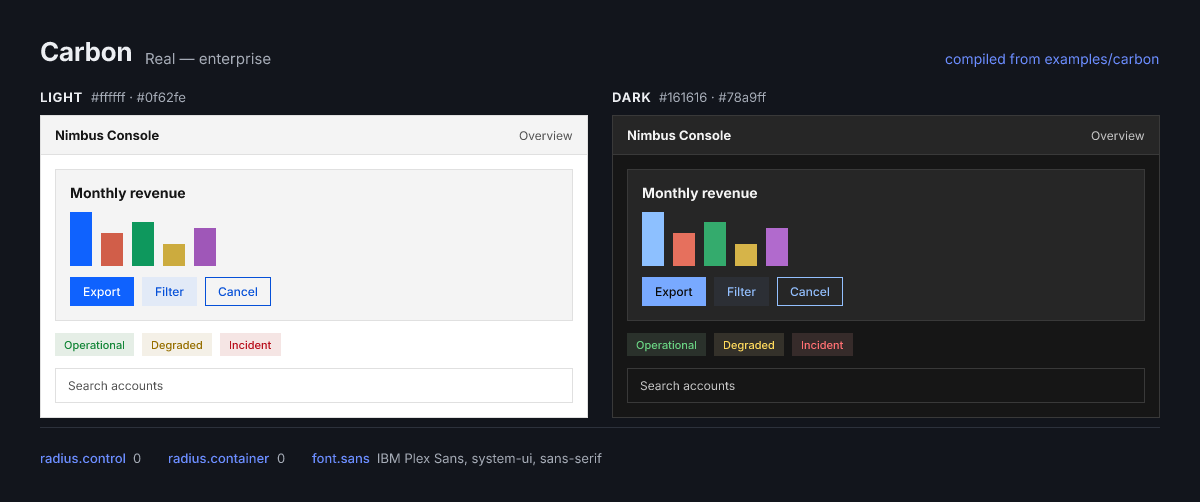
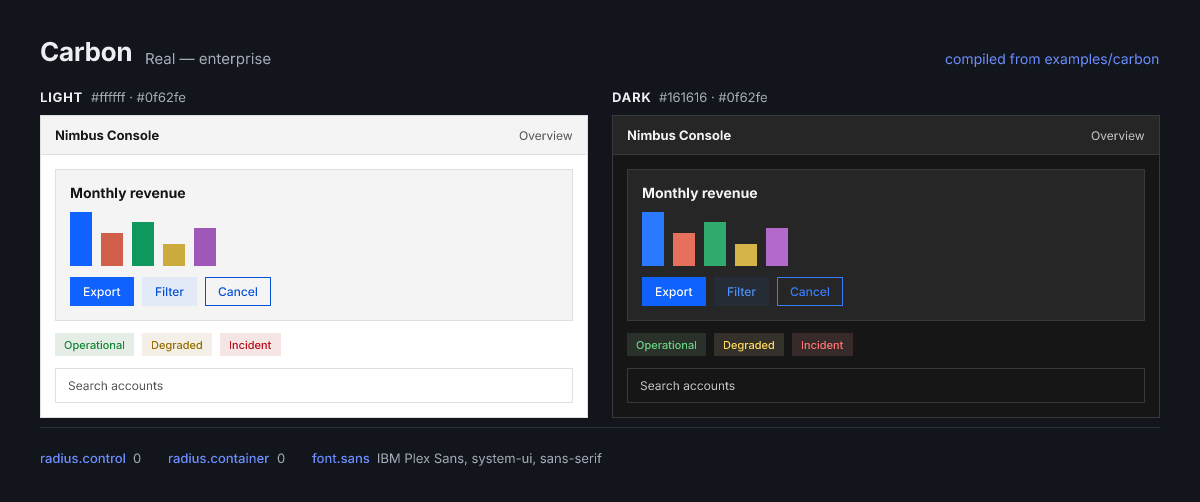
fix(examples): bind Carbon's primary and secondary to its real G100 button values (#139)

Changed region(s): [[0.5242, 0.4183, 0.7092, 0.6275], [0.5858, 0.1793, 0.6475, 0.2092]]

diff --git a/docs/findings/carbon-adoption.md b/docs/findings/carbon-adoption.md
@@ -2,14 +2,17 @@
 
 Source: [carbondesignsystem.com/elements/color/tokens](https://carbondesignsystem.com/elements/color/tokens/), fetched live 2026-07-21, for the White (light) theme core tokens and the Support/Button component tokens. The G100 (dark) theme's per-token values were **not** independently re-fetched from a live rendering of that specific theme tab in this pass (the site's theme switcher didn't expose a clean text extraction for it) — the G100 values used here are well-established, stable Carbon v11 constants, cross-checked against the White-theme values that _were_ live-verified (which matched expectations exactly), but flagged here as a lower-confidence input than the White theme numbers.
 
+> **Re-verified 2026-10-09 against Carbon's own source.** Every G100 value bound below was checked against the DTCG token files Carbon publishes in its repository ([`packages/themes/src/dtcg`](https://github.com/carbon-design-system/carbon/tree/81893f3d925daa624c516ef3d4edf2e7f339d7db/packages/themes/src/dtcg) at commit `81893f3`: `themes.json` for the core tokens, `components/button.json` for the button tokens). All of them match, with two corrections now applied to the example: `primary.solid` had been bound to `$link-primary`, which is Blue 40 on G100, while Carbon's `$button-primary` stays Blue 60 in all four themes; and `$button-secondary`, previously bound light-mode only, is Gray 60 on G100. `$support-warning` is confirmed as Yellow 30 in every theme.
+
 ## Clean 1:1 mappings, both modes
 
 Every one of these has a real, named Carbon token with a documented value in _both_ the White and G100 themes, bound via `$extensions.transtyle.modes`:
 
-- `primary.solid` ← `$link-primary` / `$interactive` / `$button-primary` (all Blue 60, #0f62fe light; Blue 40, #78a9ff dark).
+- `primary.solid` ← `$button-primary` (Blue 60, #0f62fe, in all four themes: Carbon's filled primary button does not lighten on G100). `$link-primary` and `$interactive` share Blue 60 on White but lighten on G100 (Blue 40 #78a9ff and Blue 50 #4589ff) for text and border contrast, which is why the catalog's `link.*` slots bind `$link-primary` and `primary.solid` does not. Dark mode carries the light value over, so `transtyle check` prints an informational `TST1204` for this role: that is Carbon's actual design, not a gap.
 - `danger.solid` ← `$support-error` (Red 60 #da1e28 light; Red 50 #fa4d56 dark).
 - `success.solid` ← `$support-success` (Green 50 #24a148 light; Green 40 #42be65 dark).
-- `warning.solid` ← `$support-warning` (Yellow 30 #f1c21b — same both themes).
+- `warning.solid` ← `$support-warning` (Yellow 30 #f1c21b, the same in all four themes).
+- `secondary.solid` ← `$button-secondary` (Gray 80 #393939 light; Gray 60 #6f6f6f dark).
 - `info.solid` ← `$support-info` (Blue 70 #0043ce light; Blue 50 #4589ff dark).
 - `ring` ← `$focus` (Blue 60 light; **white** on G100 — a real, deliberate Carbon choice: a blue focus ring on a near-black background would be too low-contrast, so Carbon's own dark theme swaps the focus indicator to white).
 - `text.base`/`text.muted` ← `$text-primary`/`$text-secondary`.
@@ -21,8 +24,8 @@ This is the **strongest per-role coverage of the two real-DS adoptions** — Car
 
 ## Judgment calls
 
-- **`neutral.solid`** — Carbon's core tokens don't name a "neutral brand" role either (same gap as GOV.UK). Bound to Gray 60 (#6f6f6f), Carbon's own `$text-helper`/`$icon-secondary` gray — mode-invariant, since Carbon doesn't publish a distinct G100 value for this exact gray step relative to White that would meaningfully change the pairing.
-- **`secondary.solid`** — Carbon _does_ have a real, named secondary role (`$button-secondary`, Gray 80 #393939) — a better starting point than GOV.UK, which has none. **Bound light-mode only.** The G100 theme's own `$button-secondary` value wasn't independently re-confirmed against a live source in this pass (see the header note); rather than guess a plausible-looking dark-mode hex, dark mode falls back to the same light value. This is the one place this adoption is honestly incomplete rather than fully verified — flagged, not hidden.
+- **`neutral.solid`** — Carbon's core tokens don't name a "neutral brand" role either (same gap as GOV.UK). Bound to Gray 60 (#6f6f6f), the gray Carbon's `$text-helper` uses on White, and kept mode-invariant. Carbon's source does give `$text-helper` a lighter G100 value (Gray 40), so following it in dark mode is a possible refinement; it stays a judgment call because no Carbon token is a neutral _fill_ role.
+- **`secondary.solid`** — Carbon _does_ have a real, named secondary role (`$button-secondary`), a better starting point than GOV.UK, which has none. It was first bound light-mode only, because its G100 value had not been confirmed; Carbon's source settles it (Gray 60 on G90 and G100), so both modes are now bound. On G100, secondary and `neutral` resolve to the same Gray 60: that is Carbon's own value for the secondary button, kept rather than nudged apart.
 
 ## Scope boundaries (not gaps — deliberate, documented)
 
@@ -33,7 +36,7 @@ This is the **strongest per-role coverage of the two real-DS adoptions** — Car
 
 - All seven targets (`shadcn`, `echarts`, `daisyui`, `bootstrap`, `storybook`, `css-variables`, `radix`) build with zero errors and zero warnings, in both modes.
 - `transtyle check --json` reports **zero diagnostics**.
-- All seven demo projects launched and screenshot-verified in-browser, both modes: the Radix demo's dark-mode screenshot shows the real G100 background (#161616) and Blue 40 primary (#78a9ff), an exact match to the bound values — confirming the mode-scoped `$extensions` resolved correctly end to end, not just at the token level. IBM Plex Sans/Mono load for real (Google Fonts). No console errors.
+- All seven demo projects launched and screenshot-verified in-browser, both modes: the Radix demo's dark-mode screenshot showed the real G100 background (#161616) and the primary then bound (Blue 40, #78a9ff, since corrected to Carbon's Blue 60 button value), an exact match to the bound values — confirming the mode-scoped `$extensions` resolved correctly end to end, not just at the token level. IBM Plex Sans/Mono load for real (Google Fonts). No console errors.
 - `check:determinism` extended to include this example: two builds are byte-identical.
 
 ## Catalog impact

diff --git a/docs/findings/t11-review-checklist.md b/docs/findings/t11-review-checklist.md
@@ -21,22 +21,22 @@ Per `docs/plan/catalog-revision.md` T11: _"a review checklist per target filled 
 
 ## Carbon (`examples/carbon/demo/`, ports 4401–4407, 6401)
 
-| Target        | Port | What to look for                                                                                                                                               | Result |
-| ------------- | ---- | -------------------------------------------------------------------------------------------------------------------------------------------------------------- | ------ |
-| Bootstrap     | 4401 | Both light and dark (`data-bs-theme`) look like real Carbon, not a generic dark mode                                                                           | ☐      |
-| daisyUI       | 4402 | White and G100 theme blocks both register; toggle between them                                                                                                 | ☐      |
-| shadcn/ui     | 4403 | Registry components in both modes; IBM Plex Sans renders (check via devtools computed font, not just visually)                                                 | ☐      |
-| ECharts       | 4404 | Both mode themes look distinctly Carbon (Blue 60 light / Blue 40 dark)                                                                                         | ☐      |
-| Storybook     | 6401 | Chrome themes correctly in both modes via the toolbar switcher                                                                                                 | ☐      |
-| css-variables | 4405 | Full catalog browses cleanly; spot-check `--color-*` dark values against Carbon's G100 token page                                                              | ☐      |
-| Radix         | 4406 | `indigo`/`gray` preset override; dark mode shows real G100 background + Blue 40 primary (already screenshot-verified during engineering — worth a second look) | ☐      |
-| PrimeNG       | 4407 | Aura preset in both modes on real PrimeNG Angular components; IBM Plex renders; `ng build` type-checks the emitted preset                                      | ☐      |
+| Target        | Port | What to look for                                                                                                                                   | Result |
+| ------------- | ---- | -------------------------------------------------------------------------------------------------------------------------------------------------- | ------ |
+| Bootstrap     | 4401 | Both light and dark (`data-bs-theme`) look like real Carbon, not a generic dark mode                                                               | ☐      |
+| daisyUI       | 4402 | White and G100 theme blocks both register; toggle between them                                                                                     | ☐      |
+| shadcn/ui     | 4403 | Registry components in both modes; IBM Plex Sans renders (check via devtools computed font, not just visually)                                     | ☐      |
+| ECharts       | 4404 | Both mode themes look distinctly Carbon (Blue 60 primary in both, on White and G100 backgrounds)                                                   | ☐      |
+| Storybook     | 6401 | Chrome themes correctly in both modes via the toolbar switcher                                                                                     | ☐      |
+| css-variables | 4405 | Full catalog browses cleanly; spot-check `--color-*` dark values against Carbon's G100 token page                                                  | ☐      |
+| Radix         | 4406 | `indigo`/`gray` preset override; dark mode shows real G100 background + Blue 60 primary (Carbon's `$button-primary`, the same blue in every theme) | ☐      |
+| PrimeNG       | 4407 | Aura preset in both modes on real PrimeNG Angular components; IBM Plex renders; `ng build` type-checks the emitted preset                          | ☐      |
 
 ## Open items from the findings ledger worth a maintainer opinion
 
 - [ ] GOV.UK: is Black tint-50 (#858686) the right `neutral` anchor, or would tint-25 read better in practice? (`govuk-adoption.md`)
 - [ ] GOV.UK: is purple (#54319f) an acceptable `link.visited` given it's not in GOV.UK's current functional-colour set? (`govuk-adoption.md`)
-- [ ] Carbon: should `secondary`'s G100 value be independently re-verified against a live Carbon page before this ships anywhere real? (`carbon-adoption.md`)
+- [x] Carbon: should `secondary`'s G100 value be independently re-verified against a live Carbon page before this ships anywhere real? Done 2026-10-09 against Carbon's own token source: Gray 60, now bound (`carbon-adoption.md`)
 - [ ] Both: is leaving `warning`/`info`/`secondary`/`accent` (GOV.UK) unbound-and-derived the right call, or should a real GOV.UK adoption bind them to something GOV.UK-specific even without an official functional colour?
 
 ## Sign-off

diff --git a/website/src/docs/examples.md b/website/src/docs/examples.md
@@ -94,9 +94,9 @@ npx transtyle build          # same eight targets
 What to study:
 
 - **Better native role coverage than GOV.UK.** Carbon has real, named tokens for `danger`/`success`/`warning`/`info` (its "Support" group) _and_ a real `secondary` (`$button-secondary`) — bound directly, not derived.
-- **Real per-mode tokens, not synthetic dark mode.** Carbon ships four themes (White, G10, G90, G100); this example binds White → light, G100 → dark, carrying each color's actual documented value in both modes via `$extensions."transtyle.modes"`. Nine of its fourteen colors have a distinct dark value — `$focus`, `$link-primary`, `$link-visited`, and three of the four Support colors among them. `$support-warning` and `$button-secondary` deliberately have none (see the flagged gap below), which is what an honest binding looks like: overrides where the source publishes one, silence where it doesn't.
+- **Real per-mode tokens, not synthetic dark mode.** Carbon ships four themes (White, G10, G90, G100); this example binds White → light, G100 → dark, carrying each color's actual documented value in both modes via `$extensions."transtyle.modes"`. Thirteen of its fifteen Carbon tokens have a distinct dark value — `$focus`, `$link-primary`, `$link-visited`, `$button-secondary`, and three of the four Support colors among them. `$button-primary` and `$support-warning` deliberately have none, because Carbon keeps them the same in every theme: overrides where the source publishes one, silence where it doesn't.
 - **A genuinely open type system.** IBM Plex Sans/Mono are open-source and load for real in the demo projects — unlike GOV.UK's licensed font.
-- **A flagged, not guessed, gap.** `secondary` and `warning` fall back to their light values in dark mode, because Carbon's G100 `$button-secondary` and `$support-warning` weren't independently re-verified against the live source for this pass — the honest alternative to inventing a plausible-looking hex. The build says so out loud: `transtyle check` prints an informational `TST1204` for exactly those two roles and `neutral` — and stays quiet about the nine colours whose dark values are real, because the test is the resolved colour rather than where it was written.
+- **The button, not the link.** `primary` binds Carbon's `$button-primary`, which stays Blue 60 on G100, not `$link-primary`, which lightens to Blue 40 there for text contrast; the catalog's `link.*` slots take the link tokens. So `primary` and `warning` carry their light values into dark mode, as Carbon does. The build says so out loud: `transtyle check` prints an informational `TST1204` for exactly those two roles and `neutral` — and stays quiet about the roles whose dark values differ, because the test is the resolved colour rather than where it was written.
 
 Full reasoning: [`docs/findings/carbon-adoption.md`](https://github.com/transtyle/transtyle/blob/main/docs/findings/carbon-adoption.md).
 

diff --git a/examples/carbon/README.md b/examples/carbon/README.md
@@ -10,14 +10,14 @@ This is the second half of the **T11 "real-DS run"** (`docs/plan/catalog-revisio
 
 ## What's genuinely real here — and what isn't
 
-- **Colors, both modes**: real Carbon core tokens — `$link-primary`, `$support-error/success/warning/info`, `$text-primary/secondary`, `$border-subtle-00`, `$focus` — each with its documented White _and_ G100 value, bound as real per-mode aliases (`$extensions.transtyle.modes`), not derived.
+- **Colors, both modes**: real Carbon tokens — `$button-primary/secondary`, `$link-primary`, `$support-error/success/warning/info`, `$text-primary/secondary`, `$border-subtle-00`, `$focus` — each with its White _and_ G100 value from Carbon's own token source, bound as real per-mode aliases (`$extensions.transtyle.modes`), not derived. Where Carbon uses the same value in both themes (`$button-primary`, `$support-warning`), the dark mode carries it over.
 - **Typeface**: real — **IBM Plex Sans** / **IBM Plex Mono**, Carbon's actual open-source, freely-embeddable type family (unlike GOV.UK's licensed font, these load for real in the demo projects).
 - **Radius**: real for Carbon's core structural components (buttons, inputs, tiles render square) — Carbon does use small radii on a few components (tags, tooltips) that this single `radius.md` binding doesn't capture; see the findings ledger.
 - **Both modes are real Carbon themes**: light = White, dark = G100. Carbon actually ships four themes (White, G10, G90, G100); the catalog's `color-scheme` dimension is binary, so G10/G90 aren't modeled here — a deliberate, documented scope boundary, not an oversight.
 
 ## What had to be a judgment call (see the findings ledger)
 
-Carbon has real, named roles for `danger`/`success`/`warning`/`info` (its "Support" token group) _and_ a real named `secondary` (`$button-secondary`) — better 1:1 coverage than GOV.UK. Two things still needed judgment: `neutral` has no dedicated Carbon role (mapped to Gray 60, its general-purpose helper gray), and `secondary`'s dark-mode value falls back to the light value because the G100 theme's `$button-secondary` wasn't independently re-verified against the live source for this pass — flagged rather than guessed. Full reasoning: [`../../docs/findings/carbon-adoption.md`](../../docs/findings/carbon-adoption.md).
+Carbon has real, named roles for `danger`/`success`/`warning`/`info` (its "Support" token group) _and_ a real named `secondary` (`$button-secondary`) — better 1:1 coverage than GOV.UK. Two things still needed judgment: `neutral` has no dedicated Carbon role (mapped to Gray 60, its general-purpose helper gray), and `primary` follows Carbon's button (`$button-primary`, Blue 60 in every theme) rather than its link color (`$link-primary`, which lightens to Blue 40 on G100). Full reasoning: [`../../docs/findings/carbon-adoption.md`](../../docs/findings/carbon-adoption.md).
 
 ## Build it
 

diff --git a/docs/worklog/2026-10-09-carbon-button-values.md b/docs/worklog/2026-10-09-carbon-button-values.md
@@ -1,0 +1,52 @@
+# Carbon's primary and secondary follow its real G100 button values
+
+Found while refining #42. The Carbon example bound `primary.solid` to
+`$link-primary`, and [the findings ledger](../findings/carbon-adoption.md) said
+`$link-primary`, `$interactive` and `$button-primary` were "all Blue 60 light;
+Blue 40 dark". `secondary.solid` was bound light-mode only, because its G100
+value had never been confirmed.
+
+## The defect
+
+Carbon publishes its tokens as DTCG files in its own repository
+([`packages/themes/src/dtcg`](https://github.com/carbon-design-system/carbon/tree/81893f3d925daa624c516ef3d4edf2e7f339d7db/packages/themes/src/dtcg)
+at `81893f3`). Read against that source:
+
+| Token               | White   | G100    | What the example had                  |
+| ------------------- | ------- | ------- | ------------------------------------- |
+| `$button-primary`   | Blue 60 | Blue 60 | not modeled; ledger said Blue 40 dark |
+| `$link-primary`     | Blue 60 | Blue 40 | bound to `primary.solid`              |
+| `$interactive`      | Blue 60 | Blue 50 | ledger said Blue 40 dark              |
+| `$button-secondary` | Gray 80 | Gray 60 | Gray 80 in both modes                 |
+
+So the example's dark primary button was Carbon's link colour, not its button
+colour, and its dark secondary was the White theme's value.
+
+## The fix
+
+Julien chose to bind `primary.solid` to the button token. The example's Carbon
+vocabulary gains `carbon.button-primary` (Blue 60, no dark override, as in
+Carbon), `primary.solid` aliases it, and `carbon.button-secondary` gets its
+G100 value (Gray 60). `link.*` keeps `$link-primary`. The ledger, the example
+README, the examples page and the T11 review checklist now say what Carbon's
+source says; the other G100 values bound in the example were checked against
+the same files and all match (`$support-warning` is Yellow 30 in every theme,
+which settles the second "not verified" note on the examples page).
+
+## Measured
+
+`transtyle explain … --mode dark` in `examples/carbon`:
+
+| Slot (dark)          | Before    | After     |
+| -------------------- | --------- | --------- |
+| `primary.solid`      | `#78a9ff` | `#0f62fe` |
+| `primary.on-solid`   | `#0a0a0a` | `#ffffff` |
+| `secondary.solid`    | `#393939` | `#6f6f6f` |
+| `secondary.on-solid` | `#ffffff` | `#ffffff` |
+
+The dark primary button now carries white text, as Carbon's does. `transtyle
+check` still passes with no warning; its informational `TST1204` notes moved
+from `secondary`, `warning`, `neutral` to `primary`, `warning`, `neutral`, since
+Carbon's primary is now, correctly, the same in both modes. The Carbon figure
+was regenerated (`gen:figures`). On G100 `secondary` and `neutral` resolve to
+the same Gray 60; that is Carbon's value for the secondary button, kept as is.
